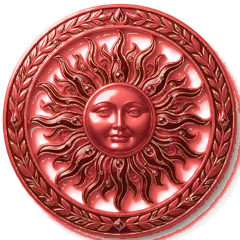
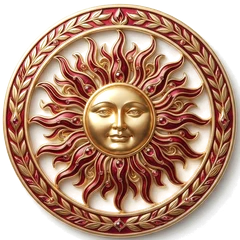
렉시오: 해·달 문장을 이전(v9.1)으로 되돌리고 별만 테두리 없는 모양 유지 (v9.3)
Claude-Session: https://claude.ai/code/session_018kcaK1YQGkv4UBC623yDa1

diff --git a/js/config.js b/js/config.js
@@ -1,6 +1,6 @@
 // 앱 이름
 export const APP_NAME = 'O게임';
-export const APP_VERSION = 'v9.2';
+export const APP_VERSION = 'v9.3';
 
 // Firebase 설정 — Firebase 콘솔 > 프로젝트 설정 > 내 앱 에서 복사한 값
 // apiKey를 비우면 "테스트 모드"로 동작합니다
